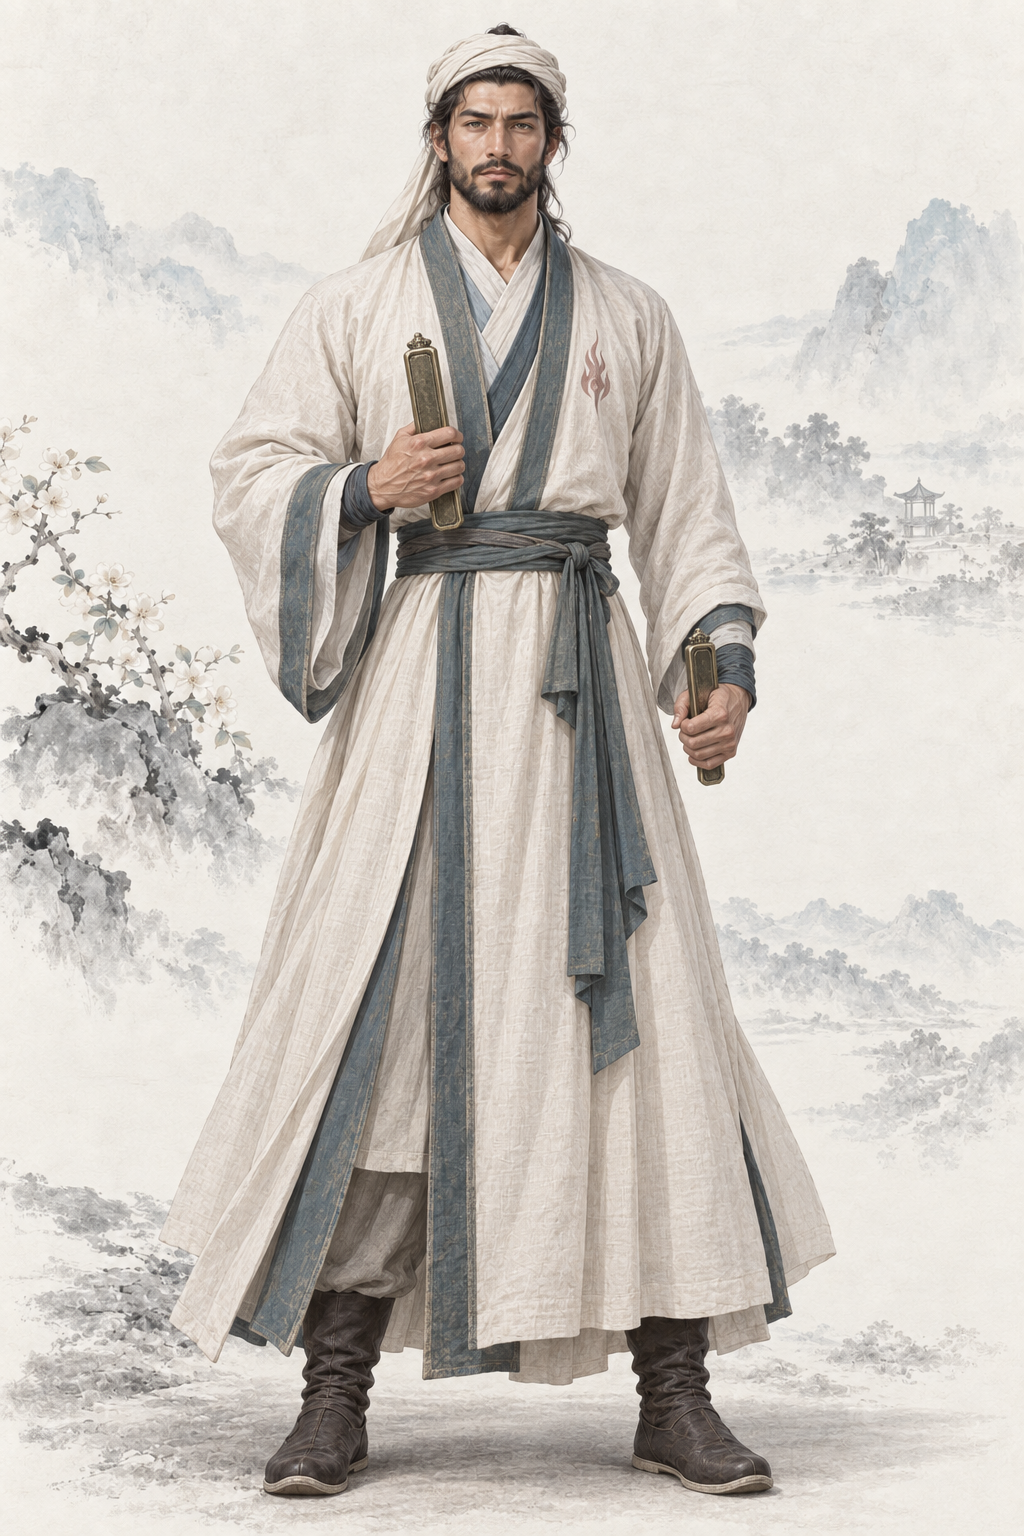
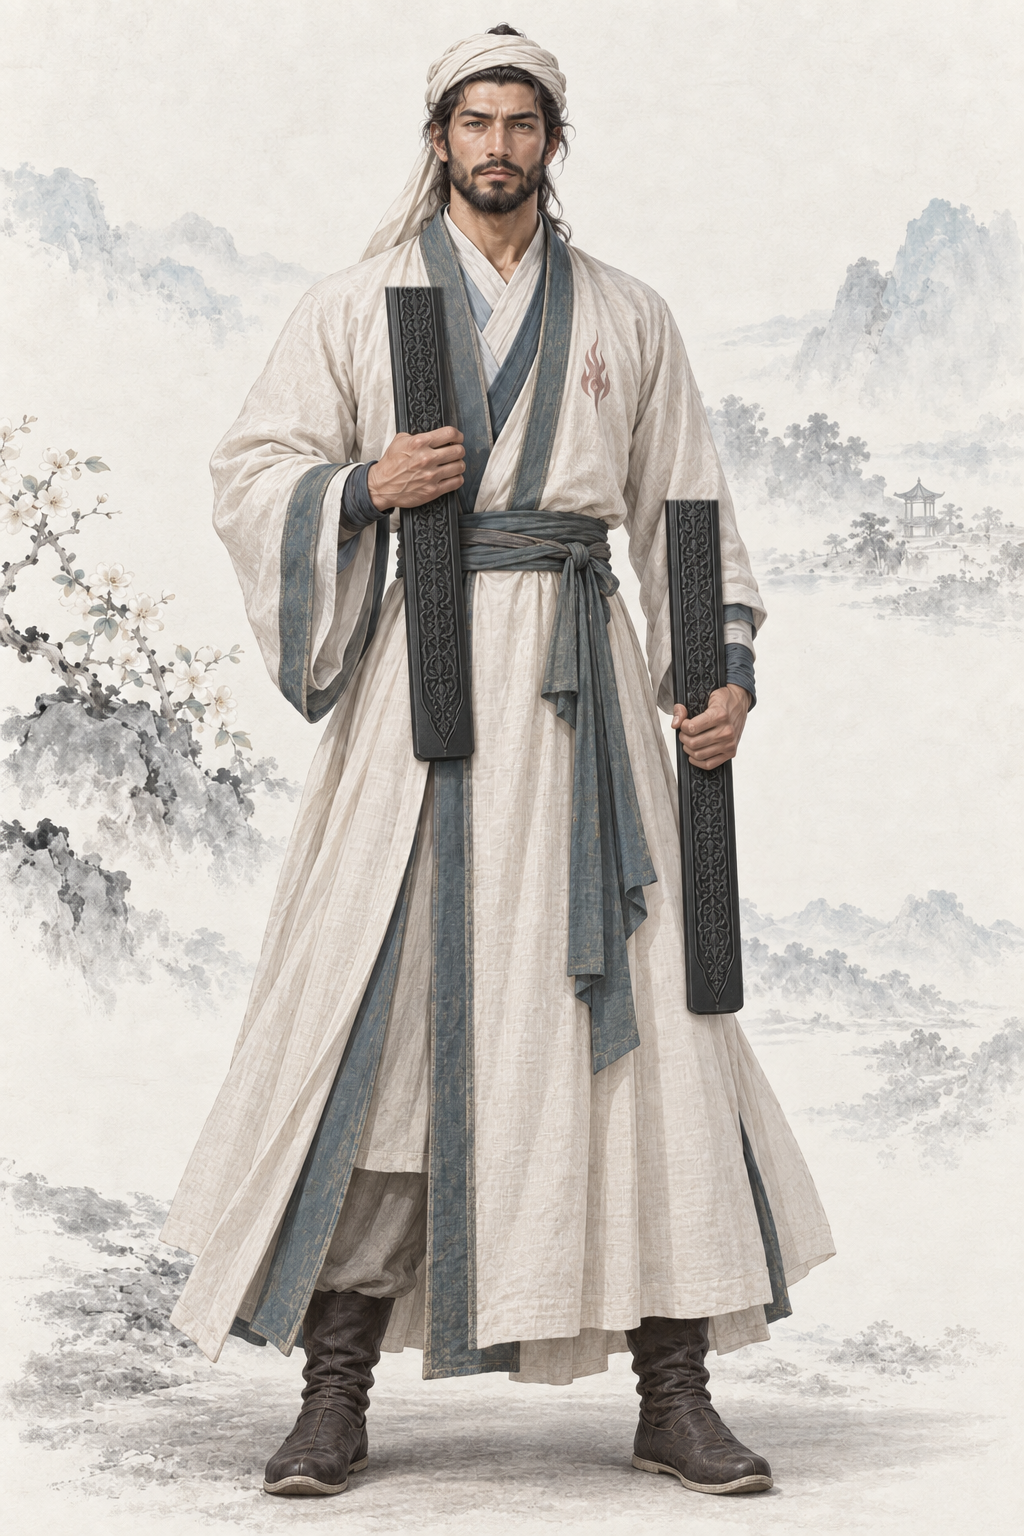
assets: AR-82 原著核对返修 波斯使者圣火令改两尺长黑牌
原著摘句已同步提示词；已打开验图；蒙版外0像素变化。

Executed-By: Codex gpt-6.1-sol（AR-82）

Changed region(s): [[0.625, 0.3125, 0.75, 0.6875], [0.375, 0.3125, 0.4688, 0.5312], [0.375, 0.1875, 0.4688, 0.2812]]

diff --git a/assets/default/prompts/characters/ch04-yitian/npc_liuyunshi.md b/assets/default/prompts/characters/ch04-yitian/npc_liuyunshi.md
@@ -73,3 +73,8 @@ FINAL POSE CHECK: FRONT-FACING 流云使. Forehead–nose–chin centreline VERT
 - 采用作者授权宽松自查；偏差如实记录，candidate不代表approved。
 - 源PNG通常为1024×1536 RGB；其他原生2:3尺寸如实登记，原字节保存，不裁切、重编码、放大或去除溯源。
 - 完整请求、实际参考哈希及旧版本备份见 `.agents/coord/portrait-generation/identity-20261001/por_npc_liuyunshi__ch04_prime_base.prepared.json`。
+
+## 原著依据
+
+- 《倚天屠龙记》二十九 四女同舟何所望：“每只手中各拿着一条两尺来长的黑牌”；https://www.xuges.com/wuxia/jinyong/yttlj/216.htm
+- AR-82 返修约束（本节优先于历史提示词）：只将两手中短小金色饰牌改成两尺来长的黑色圣火令，每只手一条，长度各约60厘米，长条厚实而非黄金挂牌，非金非玉的黑色材质，浅刻波斯纹且微弱折光。保持原手抓握位置与手指，黑牌长度向手上下延伸、需完整可见，不改变人物脸、衣服或火焰标记。
